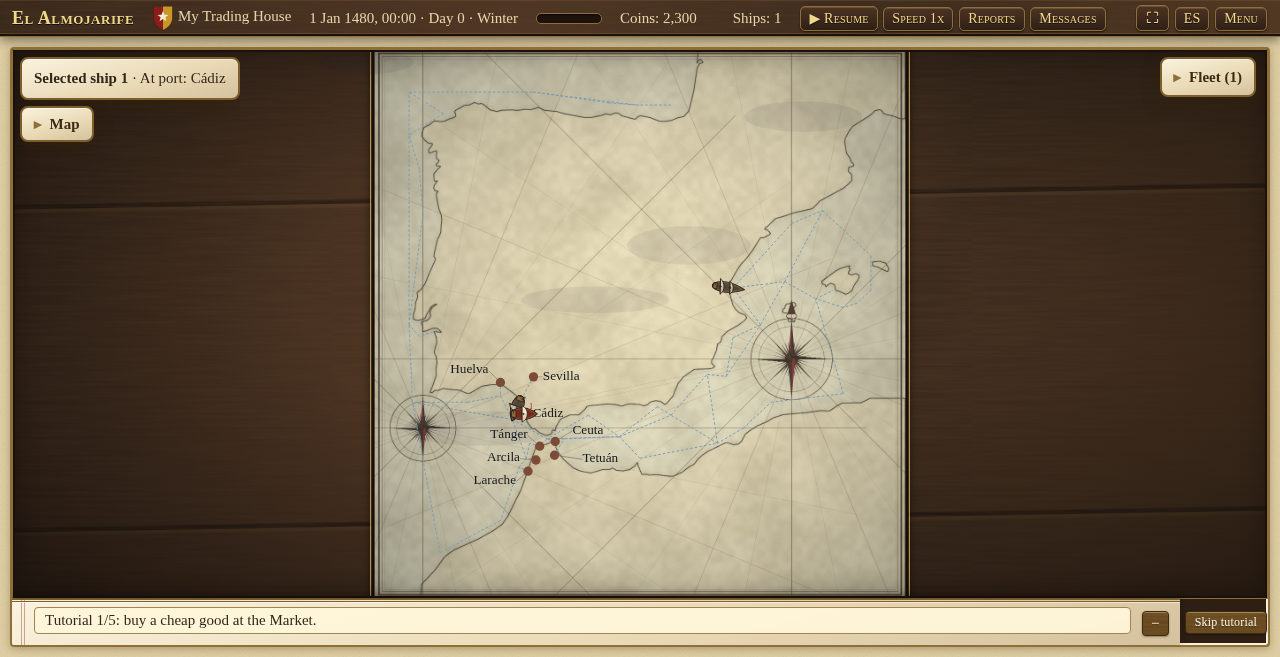
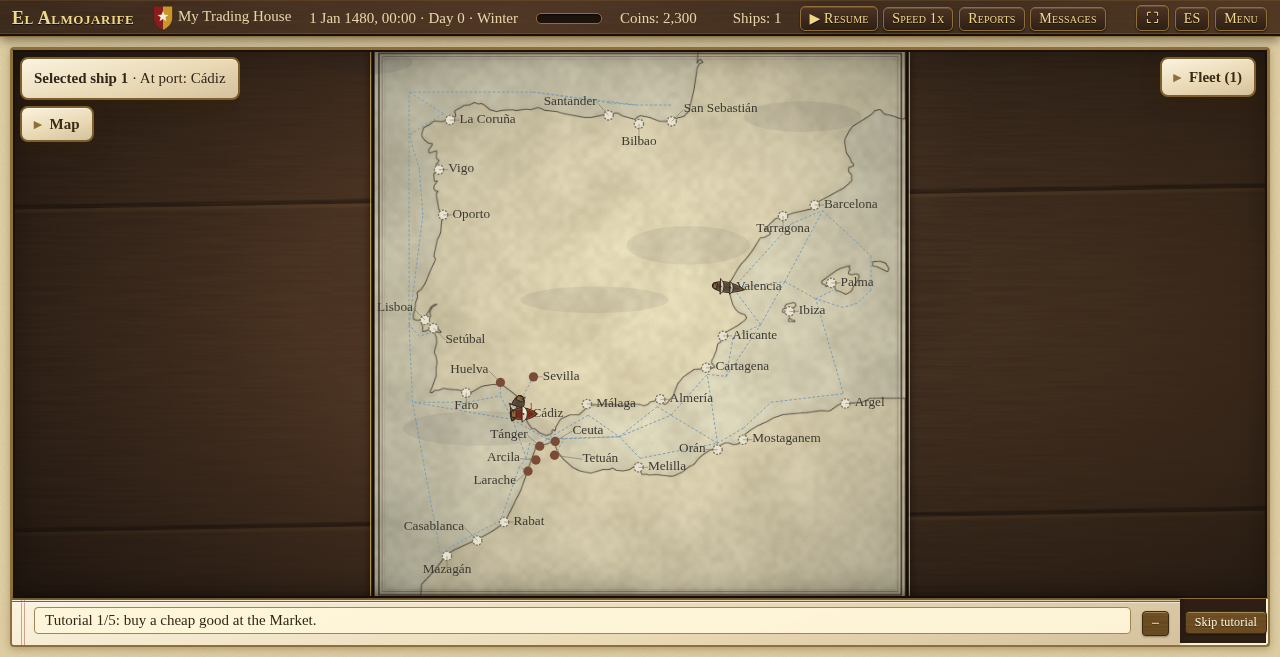
docs: refresh main sea chart screenshot and record provenance

diff --git a/README.md b/README.md
@@ -32,7 +32,7 @@ You are a small merchant with one cog and a few coins in a harbour town. Buy che
 
 ## Screenshots
 
-_All eight screenshots were refreshed on 26 Oct 2026 (English). The city plan (`city2d.png`) and sea chart (`map.png`) were captured from the playable build at `main` d8a7383bf9713fd0d4f980363685cc1d06a1a22b; the remaining six were captured from `main` c4ef80d84bdc1f500809eb4c7e163b0894a5fd2e. Refresh screenshots when the UI changes so they never show unmerged work._
+_All eight screenshots were refreshed on 26 Oct 2026 (English). The city plan (`city2d.png`) was captured from the playable build at `main` d8a7383bf9713fd0d4f980363685cc1d06a1a22b and the sea chart (`map.png`) from `main` 8165918820eadd41ef7580c64b973a9f426dbcc6; the remaining six were captured from `main` c4ef80d84bdc1f500809eb4c7e163b0894a5fd2e. Refresh screenshots when the UI changes so they never show unmerged work._
 
 | The city plan | Trade in the market |
 |---|---|
